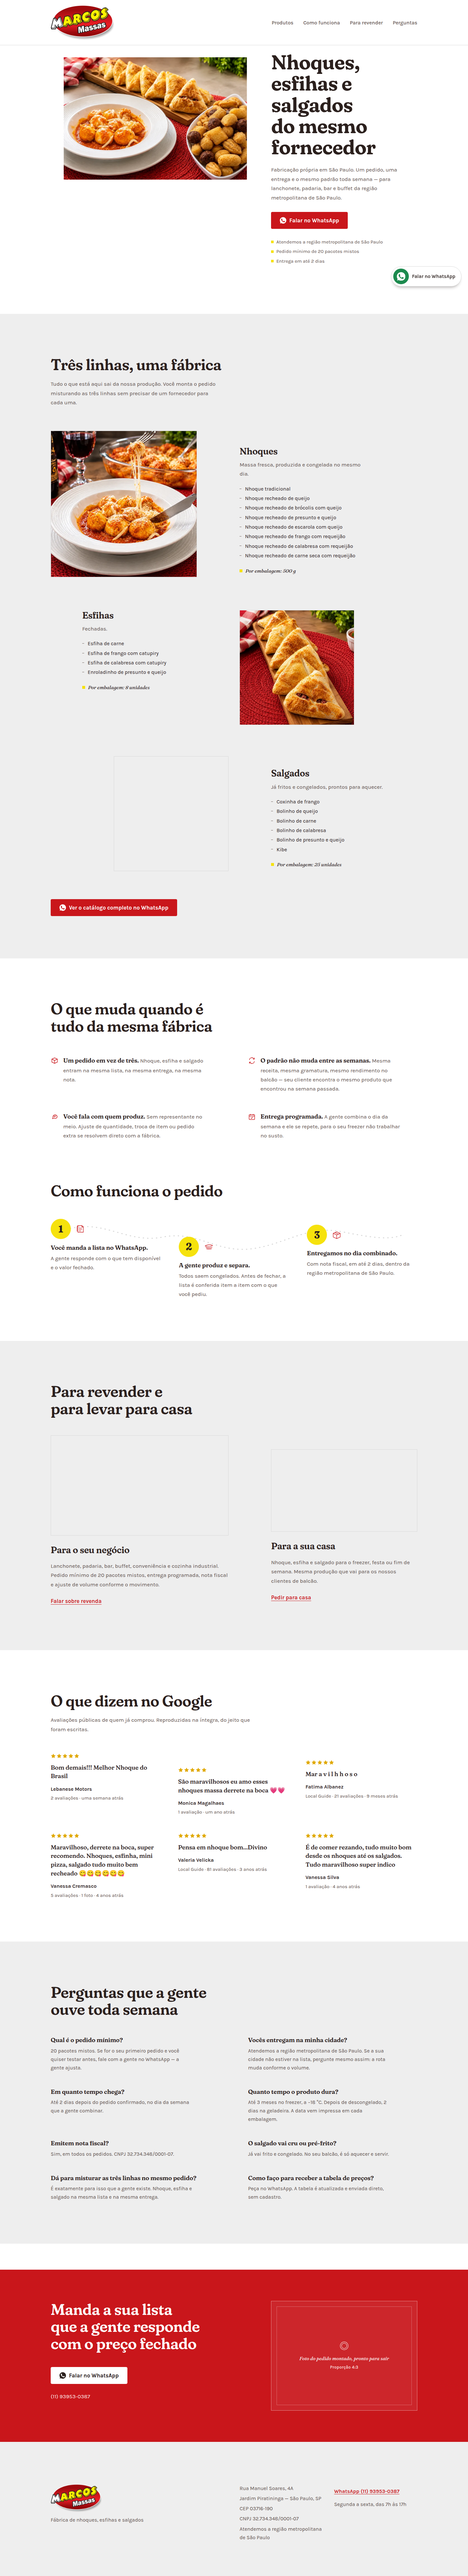
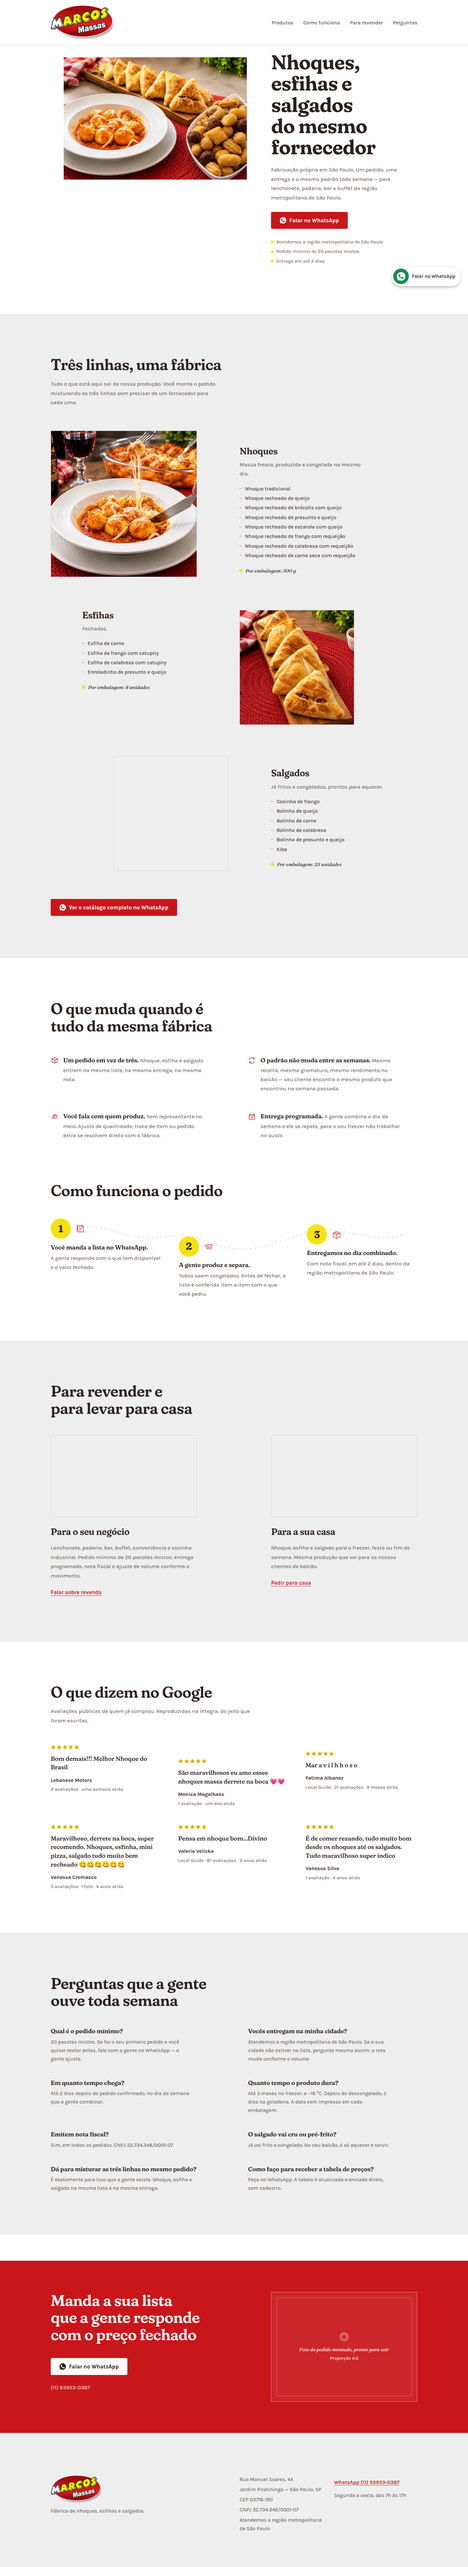
Igualar as duas fotos da secao de publicos
As molduras de "Para o seu negocio" e "Para a sua casa" estavam em
547x308 e 450x253 no desktop: a primeira ocupava 6 colunas da grade e a
segunda 5, e com as duas em 16:9 a diferenca de largura virava diferenca
de altura. Com moldura vazia isso passava como ritmo; com fotografia
real dentro, lia como erro.

As duas passam a 5 colunas (calha nas colunas 6 e 7) e perdem o
deslocamento vertical. O ritmo assimetrico continua no catalogo, onde as
pecas sao lidas em sequencia; aqui sao duas opcoes comparadas lado a
lado, e par se alinha.

Medido no navegador: 450x253 nas duas, mesmo topo. Verificador com 0
erros. Nada muda no celular, onde as duas ja ocupavam a largura inteira.

Claude-Session: https://claude.ai/code/session_01F5idm1taQsHpkz7KxKfwck

diff --git a/modelos/03-mesa/index.html b/modelos/03-mesa/index.html
@@ -683,14 +683,16 @@ html { scroll-behavior: smooth; }
 .passo p { max-width: 38ch; color: var(--tinta-media); margin: 0; }
 
 /* ==========================================================================
-   5. Revenda e consumidor final — duas peças de peso diferente
+   5. Revenda e consumidor final — duas peças pareadas
    ========================================================================== */
 .publicos__cabeca { grid-column: 1 / span 8; margin-bottom: clamp(2.25rem, 4.5vw, 3.5rem); }
-.publico--negocio { grid-column: 1 / span 6; }
-.publico--casa    { grid-column: 8 / span 5; padding-top: clamp(1.5rem, 3vw, 3rem); }
-/* Molduras 4:3 — a mesma gramática de foto do hero, em vez de criar uma
-   quarta proporção na página. O desalinhamento vertical entre as duas colunas
-   é preservado: é a assinatura do modelo 3, mesa vista de cima. */
+/* As duas colunas têm a mesma medida (5 de 12, calha nas colunas 6 e 7) e o
+   mesmo topo. O ritmo assimétrico é a assinatura do modelo 3 e vale no
+   catálogo, onde as peças são lidas em sequência; aqui são duas opções
+   paralelas comparadas lado a lado — e com fotografia real dentro, tamanhos
+   diferentes leem como erro, não como ritmo. */
+.publico--negocio { grid-column: 1 / span 5; }
+.publico--casa    { grid-column: 8 / span 5; }
 /* As fotos do cliente são 1408×768 (1,83). Em 4:3 o corte comeria 27% da
    largura — e na foto de casa isso decepa a família ou a anfitriã, que são o
    assunto. Em 16:9 o corte cai para ~3%. O passe-partout de fio duplo existia
